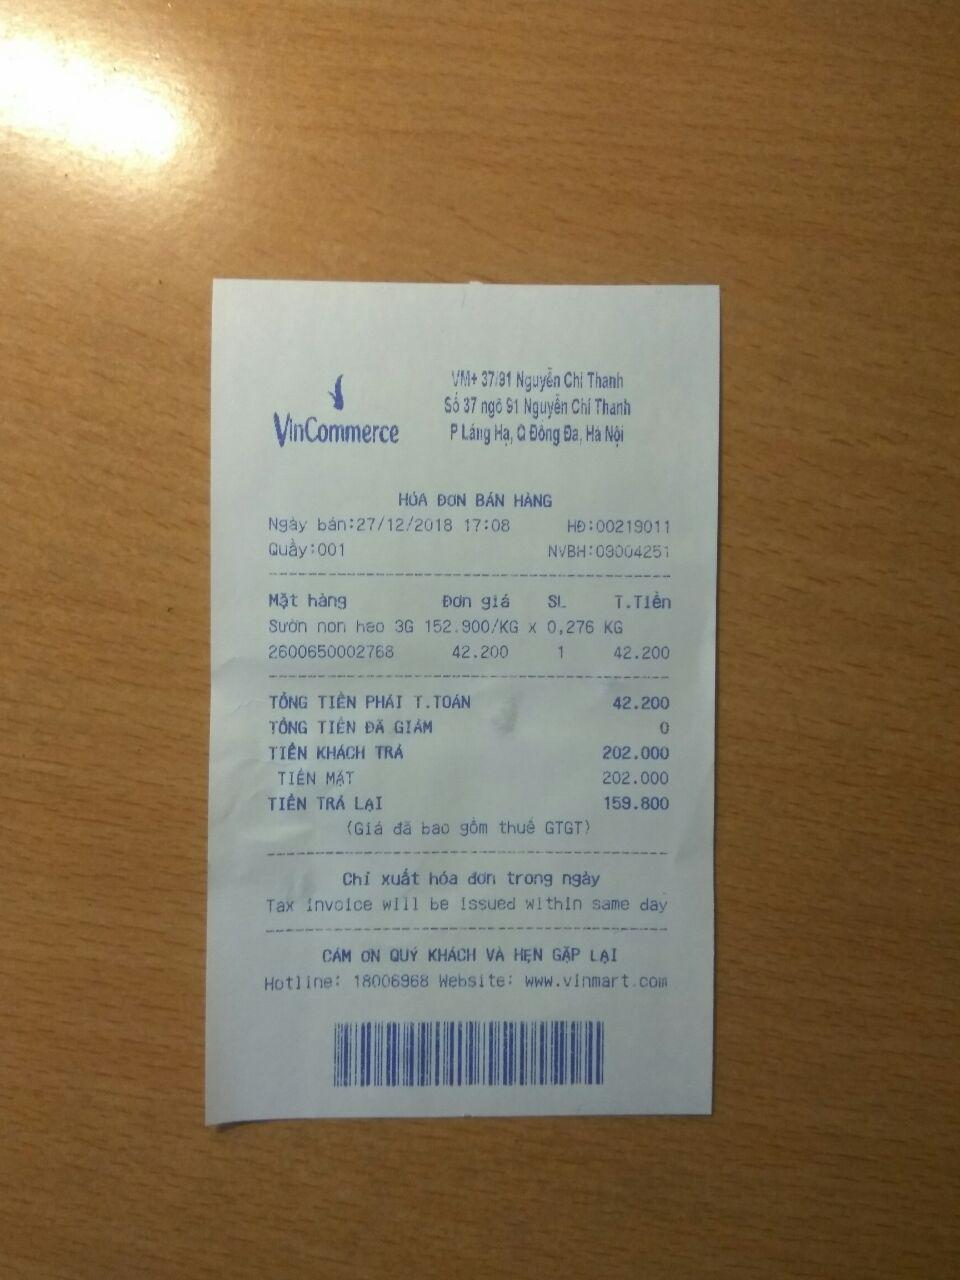
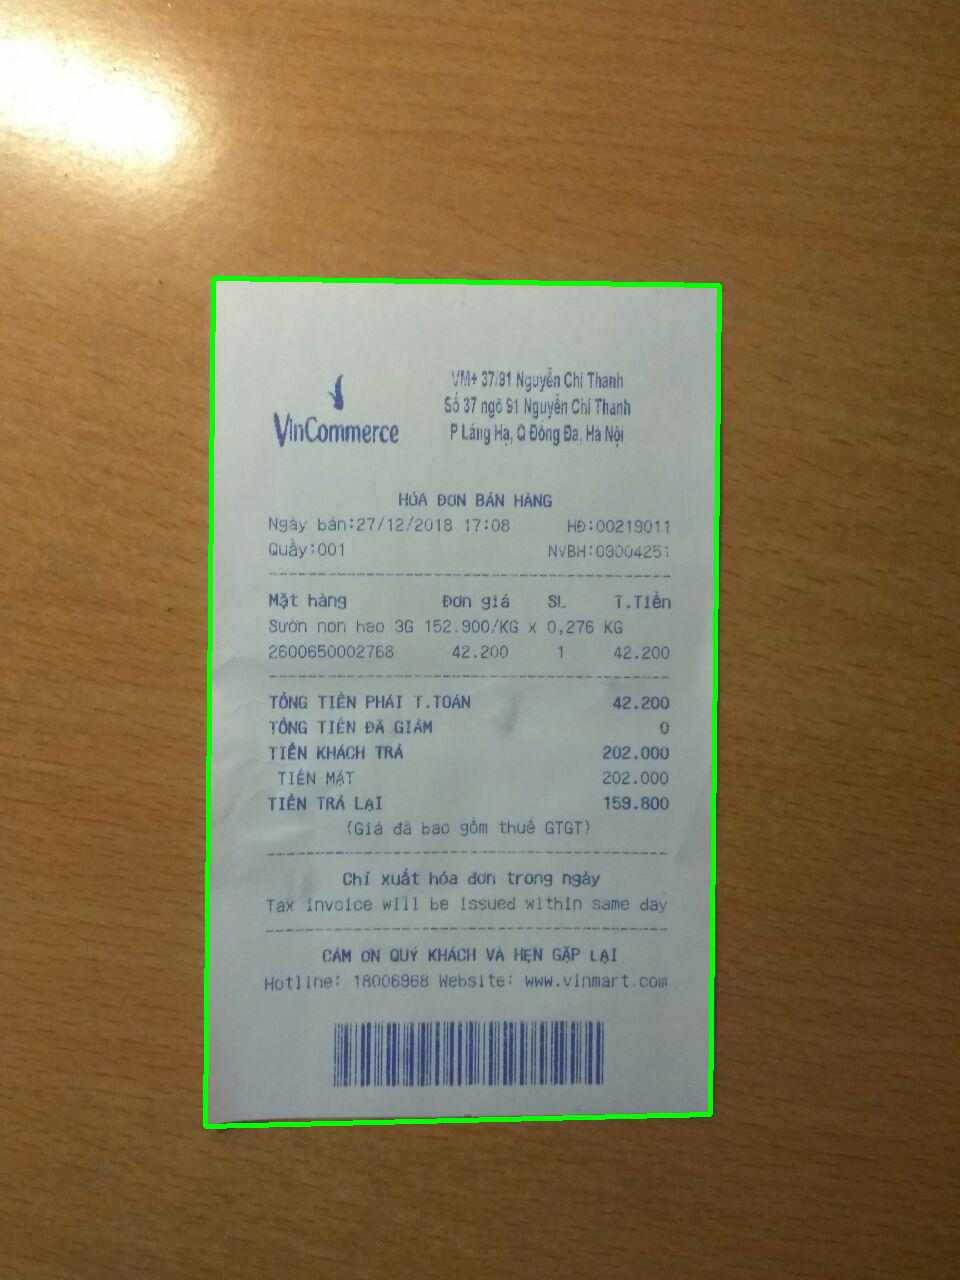
Delete min area condition

diff --git a/src/main.py b/src/main.py
@@ -6,23 +6,18 @@ inp = sys.argv[1]
 img = cv.imread(inp)
 gray = cv.cvtColor(img, cv.COLOR_BGR2GRAY)
 edges = cv.Canny(gray, 100, 200)
-cv.imwrite('canny.png', edges)
-cv.imwrite('original.png', img)
+cv.imwrite('./output/canny.png', edges)
+cv.imwrite('./output/original.png', img)
 im2 , contours, hierarchy  = cv.findContours(edges, cv.RETR_LIST, cv.CHAIN_APPROX_SIMPLE)
 res = list()
-error = 0.05
-minarea = img.shape[0] * img.shape[1] / 2
-while True:
-    for contour in contours:
-        epsilon = error * cv.arcLength(contour, True)
-        approx = cv.approxPolyDP(contour, epsilon, True)
-        if len(approx) == 4 and abs(cv.contourArea(approx)) > minarea: 
-            res.append(approx)
-    if len(res) > 0:
-        res = max(res, key = cv.contourArea)
-        cv.drawContours(img, [res], -1, (0,255,0), 3) 
-        break
-    error += 0.05
-    if error > 1:
-        break
-cv.imwrite('contours.png', img)
+error = 0.1
+# minarea = img.shape[0] * img.shape[1] / 2
+for contour in contours:
+    epsilon = error * cv.arcLength(contour, True)
+    approx = cv.approxPolyDP(contour, epsilon, True)
+    if len(approx) == 4:
+        res.append(approx)
+if len(res) > 0:
+    res = max(res, key = cv.contourArea)
+    cv.drawContours(img, [res], -1, (0,255,0), 3) 
+cv.imwrite('./output/contours.png', img)
